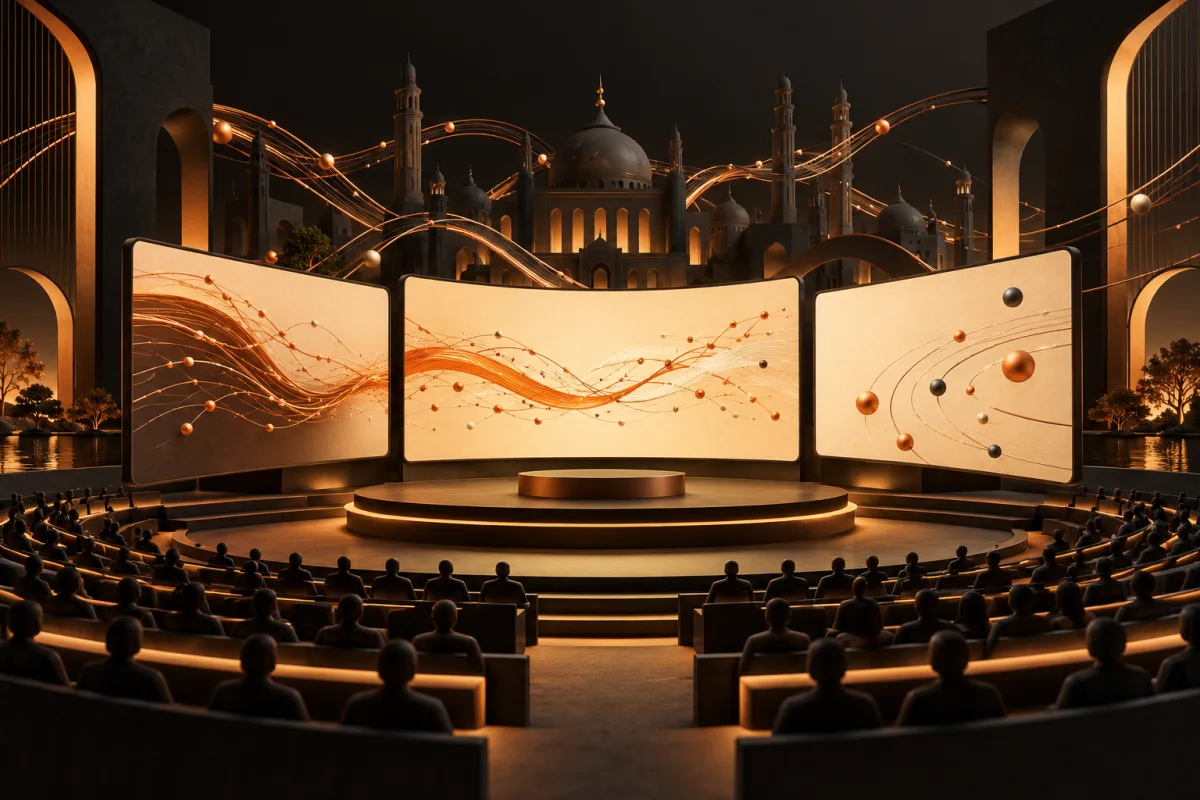
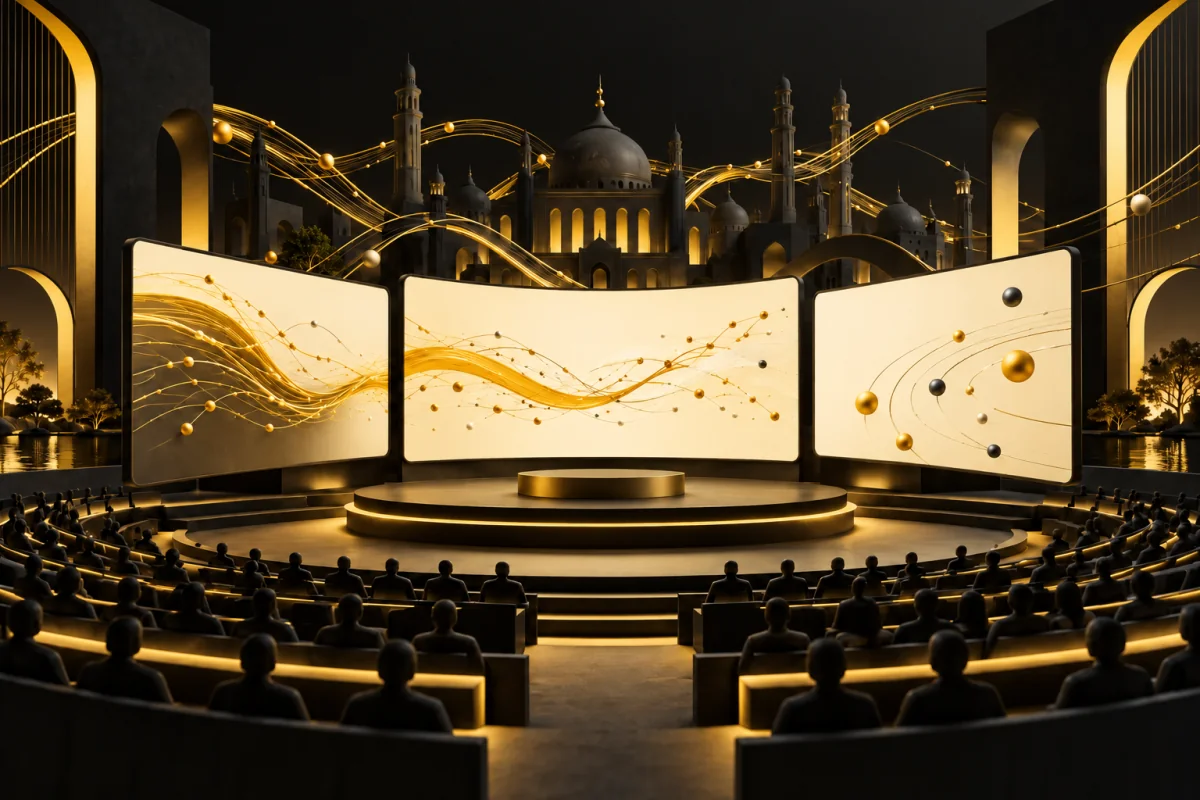
fix(blog): adapt imported illustrations to Dose colors

diff --git a/src/content/blog/otel-drops-2026-10-19.md b/src/content/blog/otel-drops-2026-10-19.md
@@ -6,7 +6,7 @@ publishedAt: "2026-10-19"
 author: "carla"
 tags: ["opentelemetry-collector", "metricas", "telemetria", "opentelemetry"]
 heroImage: "../../assets/blog/otel-drops-2026-10-19.webp"
-heroImageAlt: "Dois mostradores de carvão e cobre ao lado de blocos ligados por um cordão de cobre."
+heroImageAlt: "Dois mostradores de carvão e latão ao lado de blocos ligados por um cordão amarelo."
 sourceUrl: "https://telemetrydrops.com/blog/otel-drops-2026-10-19/"
 tldr: "Nesta edição: métricas de processo em RC no hostmetrics, exportação de rastros do Claude em beta, eleições e atualizações do ecossistema."
 keyTakeaways: ["Definições versionadas permitem migrar métricas de processo e tratar conflitos com a saída legada.", "O beta do Claude conecta spans da plataforma e do SDK; a entrega é feita por melhor esforço.", "A votação do Comitê de Governança acontece de 26 a 28 de outubro; indicações aos prêmios encerram em 30 de outubro."]
